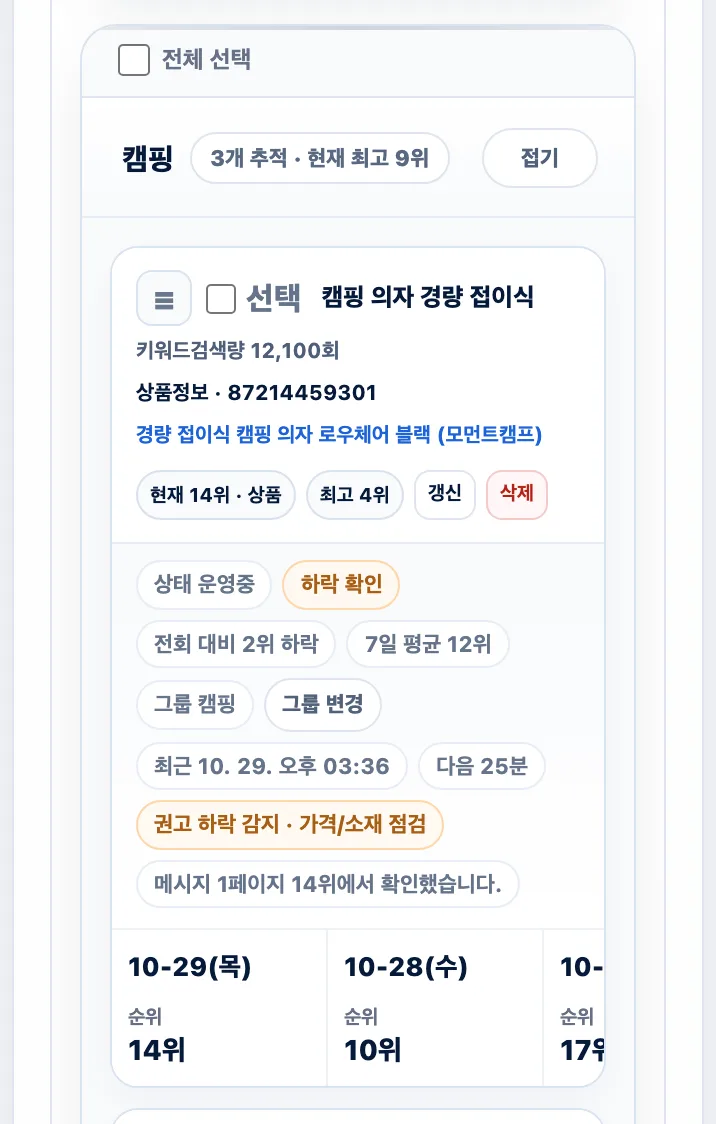
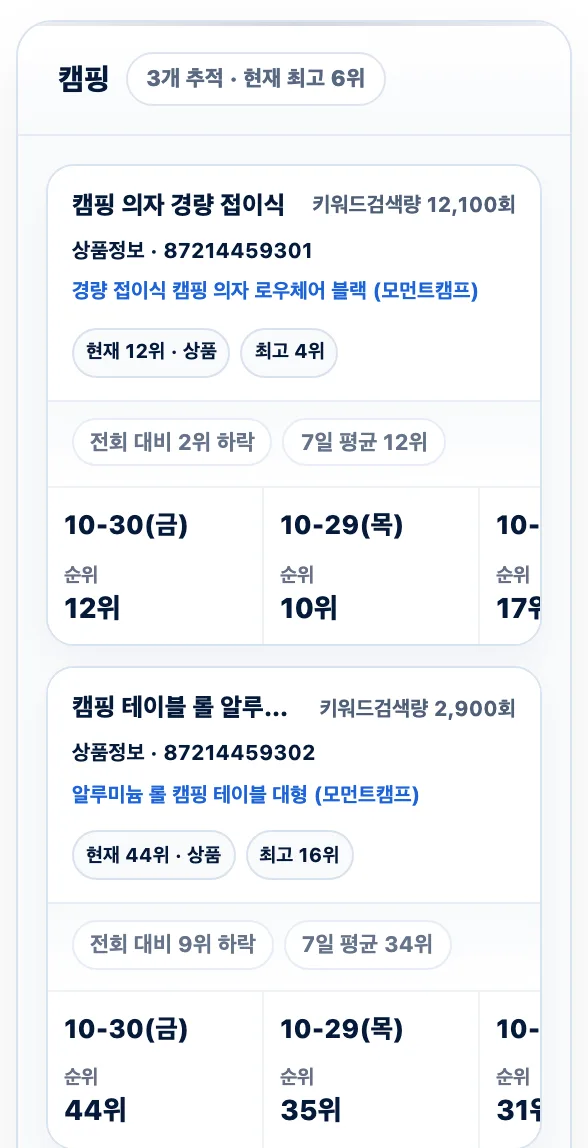
wip(seo): 설명 페이지 2개 고칠 목록 1~8 반영(fix-1030, 배포 전)
- 순위 예시 그림을 광고주 화면(client.html N30 순위판, 가짜 데이터)에서 다시 찍음: 등록 칸·자동추적 요약·선택 항목 정리 바와
  카드 조작 버튼·운영 알약은 '선택 이미지 저장'과 같은 기준으로 가림, 카드 2장·날짜 8칸(넓은 화면)
- 순위 페이지 제목·설명·OG: '순위 확인' 대신 '순위 추적 · 30일 변동 기록'(주소 그대로)
- 두 페이지 첫 화면 아래 '이럴 때 씁니다' 3가지 + 예시 숫자 1개(가짜 데이터 표기)
- 기능 카드 6→4(몇 페이지 몇 번째·원부는 자주 묻는 질문으로), 카드=무엇·3단계=어떻게·FAQ=궁금증으로 되풀이 줄임
- 오가닉·원부·회차는 처음 나올 때 쉬운 말, '수집' 표현 뺌, 바닥 줄 '하루 2~3회' 뺌
- 키워드 페이지 '로그인 없이 연관 키워드 조회' 질문·링크 삭제, 가격 문구 없음
- 390px 휴대폰에서 제목 구 단위 줄바꿈(구 묶음 해제는 360px 이하만), 시험 8건 추가

Changed region(s): [[0.0612, 0.0623, 0.9796, 1.0], [0.0918, 0.0, 0.8571, 0.0934], [0.0, 0.0311, 0.0306, 1.0]]

diff --git a/src/pages/guide-naver-shopping-rank-tracking.html b/src/pages/guide-naver-shopping-rank-tracking.html
@@ -4,8 +4,8 @@
 <meta charset="utf-8" />
 <meta name="viewport" content="width=device-width, initial-scale=1" />
 <meta name="theme-color" content="#061a3a" />
-<title>스마트스토어 키워드 순위 30일 추적 · 네이버 쇼핑 순위 확인 | 모먼트 인사이트</title>
-<meta name="description" content="스마트스토어 상품이 네이버 쇼핑 검색에서 몇 위인지, 광고를 뺀 상위 300개 안에서 하루 2~3회 확인해 최근 30일 기록으로 보여 줍니다. 확인할 수 있는 것, 쓰는 법 3단계, 예시 화면, 무료 범위와 도입 조건을 안내합니다." />
+<title>네이버 쇼핑 순위 추적 · 스마트스토어 30일 순위 변동 기록 | 모먼트 인사이트</title>
+<meta name="description" content="스마트스토어 상품의 네이버 쇼핑 순위를 자동으로 추적해 최근 30일 변동을 날짜별로 기록합니다. 광고를 뺀 상위 300개 안에서 하루 2~3회 확인하며, 쓰임새·쓰는 법·예시 화면·도입 조건을 안내합니다." />
 <meta name="robots" content="index, follow" />
 <meta name="author" content="모먼트 인사이트" />
 <link rel="canonical" href="https://insight.momentlabs.co.kr/guide/naver-shopping-rank-tracking" />
@@ -13,8 +13,8 @@
 <meta property="og:type" content="article" />
 <meta property="og:site_name" content="모먼트 인사이트" />
 <meta property="og:locale" content="ko_KR" />
-<meta property="og:title" content="스마트스토어 키워드 순위 30일 추적 | 모먼트 인사이트" />
-<meta property="og:description" content="광고를 뺀 네이버 쇼핑 상위 300개 안에서 내 상품 순위를 하루 2~3회 확인해 최근 30일 기록으로 봅니다." />
+<meta property="og:title" content="네이버 쇼핑 순위 추적 · 30일 변동 기록 | 모먼트 인사이트" />
+<meta property="og:description" content="광고를 뺀 네이버 쇼핑 상위 300개 안에서 내 상품 순위를 자동으로 추적하고, 최근 30일 변동을 날짜별 기록으로 남깁니다." />
 <meta property="og:url" content="https://insight.momentlabs.co.kr/guide/naver-shopping-rank-tracking" />
 <meta property="og:image" content="https://insight.momentlabs.co.kr/og-image.jpg" />
 <meta property="og:image:width" content="1200" />
@@ -22,10 +22,10 @@
 <meta property="og:image:alt" content="모먼트 인사이트 — 시장 뉴스 · 키워드 조사 · 30일 순위 추적" />
 <meta name="twitter:card" content="summary_large_image" />
 <meta name="twitter:image" content="https://insight.momentlabs.co.kr/og-image.jpg" />
-<meta name="twitter:title" content="스마트스토어 키워드 순위 30일 추적 | 모먼트 인사이트" />
-<meta name="twitter:description" content="광고를 뺀 네이버 쇼핑 상위 300개 안에서 내 상품 순위를 하루 2~3회 확인해 최근 30일 기록으로 봅니다." />
+<meta name="twitter:title" content="네이버 쇼핑 순위 추적 · 30일 변동 기록 | 모먼트 인사이트" />
+<meta name="twitter:description" content="광고를 뺀 네이버 쇼핑 상위 300개 안에서 내 상품 순위를 자동으로 추적하고, 최근 30일 변동을 날짜별 기록으로 남깁니다." />
 <link rel="stylesheet" href="/mi-tokens.css?v=tokens-v1-20260826" />
-<link rel="stylesheet" href="/mi-guide.css?v=guide-v1-20261029" />
+<link rel="stylesheet" href="/mi-guide.css?v=guide-v2-20261030" />
 </head>
 <body>
 
@@ -55,15 +55,15 @@
             <meta itemprop="position" content="1" />
           </li>
           <li itemprop="itemListElement" itemscope itemtype="https://schema.org/ListItem">
-            <span itemprop="name">스마트스토어 순위 추적 안내</span>
+            <span itemprop="name">네이버 쇼핑 순위 추적 안내</span>
             <meta itemprop="position" content="2" />
           </li>
         </ol>
-        <span class="mi-kicker">사용 안내 · 네이버 쇼핑 순위</span>
-        <h1 id="mi-guide-title"><span class="mi-nb">스마트스토어 키워드 순위,</span> <span class="mi-nb">30일 기록으로 봅니다</span></h1>
+        <span class="mi-kicker">사용 안내 · 네이버 쇼핑 순위 추적</span>
+        <h1 id="mi-guide-title"><span class="mi-nb">네이버 쇼핑 순위 추적,</span> <span class="mi-nb">30일 변동을 기록합니다</span></h1>
         <p class="mi-lead">
-          내 상품이 그 키워드로 네이버 쇼핑에서 몇 위인지 매번 직접 검색해 세지 않아도 됩니다.
-          모먼트 인사이트가 광고를 뺀 상위 300개 상품 안에서 하루 2~3회 순위를 확인하고, 최근 30일 흐름을 한 화면에 모아 둡니다.
+          내 상품이 그 키워드로 몇 위였는지, 지난 30일 동안 어떻게 오르내렸는지 기록으로 남깁니다.
+          도입하면 등록한 키워드와 상품의 순위를 모먼트 인사이트가 자동으로 확인해 한 화면에 쌓아 둡니다.
         </p>
         <div class="mi-inline-actions">
           <a class="mi-button primary" href="https://pf.kakao.com/_ixoLxfX" target="_blank" rel="noopener">도입 문의 · 카카오 채널</a>
@@ -80,6 +80,33 @@
       </div>
     </section>
 
+    <section class="mi-section is-white" id="mi-guide-use" aria-labelledby="mi-guide-use-title">
+      <div class="mi-shell">
+        <div class="mi-section-head">
+          <span class="mi-kicker">이럴 때 씁니다</span>
+          <h2 id="mi-guide-use-title">순위를 기록해 두면 판단이 빨라집니다</h2>
+        </div>
+        <div class="mi-grid-3">
+          <article class="mi-card">
+            <span class="mi-fact-tag">광고 전</span>
+            <h3>광고비를 쓰기 전에, 광고 없는 순위부터</h3>
+            <p>광고를 걸기 전에 광고 없이 몇 위에 있는지 기록으로 먼저 봅니다. 여기서 말하는 순위는 모두 오가닉 순위(광고가 아닌 일반 상품 사이의 순위)입니다.</p>
+          </article>
+          <article class="mi-card">
+            <span class="mi-fact-tag">바꾼 뒤</span>
+            <h3>상세페이지·가격·리뷰를 바꾼 뒤 효과 확인</h3>
+            <p>바꾼 날 앞뒤로 순위가 어떻게 움직였는지 날짜별 기록으로 비교합니다.</p>
+            <p class="mi-example"><span>예시 숫자 · 가짜 데이터</span><strong>23위 → 9위</strong></p>
+          </article>
+          <article class="mi-card">
+            <span class="mi-fact-tag">보고</span>
+            <h3>대행사라면 광고주에게 기록으로 보고</h3>
+            <p>"순위가 올랐다"는 말 대신, 날짜별 순위 변화를 그대로 보여 주며 보고합니다.</p>
+          </article>
+        </div>
+      </div>
+    </section>
+
     <section class="mi-section" id="mi-guide-what" aria-labelledby="mi-guide-what-title">
       <div class="mi-shell">
         <div class="mi-section-head">
@@ -87,31 +114,21 @@
           <h2 id="mi-guide-what-title">키워드 하나에 상품 하나, 순위를 매일 쌓아 둡니다</h2>
           <p>등록한 키워드 × 내 상품마다 네이버 쇼핑 검색 결과에서의 위치를 기록합니다.</p>
         </div>
-        <div class="mi-grid-3">
+        <div class="mi-grid-2" data-mi-guide-cards>
           <article class="mi-card">
             <span class="mi-fact-tag">광고 제외</span>
             <h3>광고를 뺀 상위 300개 안에서 찾습니다</h3>
-            <p>검색 결과의 광고 상품은 세지 않고, 오가닉(일반) 상품 1~300위 안에서 내 상품의 위치를 찾습니다.</p>
+            <p>검색 결과의 광고 상품은 세지 않고, 오가닉 상품 1~300위 안에서 내 상품의 위치를 찾습니다.</p>
           </article>
           <article class="mi-card">
-            <span class="mi-fact-tag">하루 2~3회</span>
-            <h3>하루 2~3회 자동으로 확인합니다</h3>
-            <p>정해진 시각에 한꺼번에 도는 방식이 아니라, 차례가 돌아오는 대로 하나씩 확인해 기록합니다. 확인이 실패한 회차는 기록하지 않고 마지막으로 확인된 순위를 그대로 둡니다.</p>
+            <span class="mi-fact-tag">자동 기록</span>
+            <h3>직접 검색하지 않아도 순위가 쌓입니다</h3>
+            <p>등록한 키워드와 상품을 차례대로 자동으로 확인해 기록합니다. 매번 검색해 세거나 새로 고칠 필요가 없습니다.</p>
           </article>
           <article class="mi-card">
             <span class="mi-fact-tag">최근 30일</span>
             <h3>최근 30일 일별 순위판</h3>
             <p>상품별로 날짜마다 순위를 보여 줘, 언제 오르고 내렸는지 한눈에 봅니다. 현재 순위와 최고 순위도 함께 표시합니다.</p>
-          </article>
-          <article class="mi-card">
-            <span class="mi-fact-tag">몇 페이지 몇 번째</span>
-            <h3>페이지와 페이지 안 순위까지</h3>
-            <p>광고 제외 40개 보기 기준으로 몇 페이지 몇 번째인지도 함께 표시합니다.</p>
-          </article>
-          <article class="mi-card">
-            <span class="mi-fact-tag">가격비교(원부)</span>
-            <h3>가격비교 카드로 묶인 상품도</h3>
-            <p>내 상품 카드와, 여러 판매처를 하나로 묶은 네이버 가격비교(원부) 카드 중 더 높은 쪽을 대표 순위로 봅니다. 원부 카드로만 보이는 상품은 가격비교 상품 주소(원부 주소)로 등록합니다.</p>
           </article>
           <article class="mi-card">
             <span class="mi-fact-tag">골라 보기</span>
@@ -132,20 +149,19 @@
           <li class="mi-card">
             <span class="mi-card-number">1</span>
             <h3>키워드와 상품 주소 등록</h3>
-            <p>추적할 키워드와 스마트스토어 상품 주소(또는 가격비교 원부 주소)를 넣습니다. 도입하면 운영팀이 처음 키워드와 상품을 먼저 등록해 드립니다.</p>
+            <p>추적할 키워드와 스마트스토어 상품 주소를 넣습니다. 가격비교 카드로만 보이는 상품이면 원부 주소(원부: 여러 판매처를 하나로 묶은 네이버 가격비교 카드)를 넣습니다. 도입하면 운영팀이 처음 키워드와 상품을 먼저 등록해 드립니다.</p>
           </li>
           <li class="mi-card">
             <span class="mi-card-number">2</span>
-            <h3>하루 2~3회 자동 확인</h3>
-            <p>등록 다음 수집부터 순위가 쌓입니다. 직접 검색하거나 새로 고칠 필요가 없습니다.</p>
+            <h3>자동으로 확인·기록</h3>
+            <p>등록한 다음 확인부터 순위가 쌓입니다. 등록 전의 과거 순위는 소급되지 않습니다.</p>
           </li>
           <li class="mi-card">
             <span class="mi-card-number">3</span>
             <h3>30일 흐름 보기</h3>
-            <p>상품별 일별 순위판에서 현재·최고 순위와 직전 대비 변동을 보고, 상승·하락한 상품만 골라 확인합니다.</p>
+            <p>상품별 일별 순위판을 열어, 오르내린 상품부터 골라 봅니다.</p>
           </li>
         </ol>
-        <p class="mi-steps-note">순위는 등록 다음 수집부터 쌓입니다. 등록 전의 과거 순위는 소급되지 않습니다.</p>
       </div>
     </section>
 
@@ -154,15 +170,15 @@
         <div class="mi-section-head">
           <span class="mi-kicker">실제 화면</span>
           <h2 id="mi-guide-screen-title">광고주가 보는 30일 순위 화면</h2>
-          <p>아래는 가짜 데이터로 그린 예시 화면입니다. 키워드·상품명·스토어 이름과 순위는 설명용이며 실제 고객 정보가 아닙니다.</p>
+          <p>아래는 가짜 데이터로 그린 예시 화면입니다. 키워드·상품명·스토어 이름과 순위는 설명용이며 실제 고객 정보가 아닙니다. 순위 부분이 잘 보이도록 등록 칸과 관리 버튼은 가렸습니다.</p>
         </div>
         <figure class="mi-shot">
           <div class="mi-shot-bar"><span class="mi-shot-label">예시 화면</span><span>가짜 데이터 · 실제 고객 정보 미사용</span></div>
           <picture>
-            <source media="(max-width: 640px)" srcset="/guide/img/rank-tracking-example-mobile.webp" width="716" height="1124" />
-            <img src="/guide/img/rank-tracking-example.webp" width="1521" height="1449" loading="lazy" decoding="async" alt="예시 화면: 키워드별 상품의 현재 순위, 최고 순위, 직전 대비 변동과 최근 30일 일별 순위가 카드로 정리된 N 30일 순위 화면" />
+            <source media="(max-width: 640px)" srcset="/guide/img/rank-tracking-example-mobile.webp" width="588" height="1148" />
+            <img src="/guide/img/rank-tracking-example.webp" width="1443" height="777" loading="lazy" decoding="async" alt="예시 화면: 광고주 화면의 30일 순위판. 그룹 아래 상품 카드마다 현재 순위, 최고 순위, 전회 대비 변동, 7일 평균과 날짜별 순위가 보입니다" />
           </picture>
-          <figcaption>예시 화면 · 상품 카드마다 현재 순위·최고 순위·직전 대비 변동, 아래에 날짜별 순위가 이어집니다. 휴대폰에서는 날짜 칸을 옆으로 밀어 지난 날짜를 봅니다.</figcaption>
+          <figcaption>예시 화면 · 상품 카드마다 현재 순위·최고 순위·전회 대비 변동, 아래에 날짜별 순위가 이어집니다. 휴대폰에서는 날짜 칸을 옆으로 밀어 지난 날짜를 봅니다.</figcaption>
         </figure>
       </div>
     </section>
@@ -211,13 +227,25 @@
           <details open itemprop="mainEntity" itemscope itemtype="https://schema.org/Question">
             <summary itemprop="name">광고로 노출된 자리도 순위에 들어가나요?</summary>
             <div itemprop="acceptedAnswer" itemscope itemtype="https://schema.org/Answer">
-              <p itemprop="text">아니요. 광고 상품은 빼고 오가닉(일반) 상품만 셉니다. 그래서 네이버 쇼핑 화면에서 광고까지 포함해 눈으로 센 순서와 다를 수 있습니다.</p>
+              <p itemprop="text">아니요. 광고 상품은 빼고 오가닉 상품(광고가 아닌 일반 상품)만 셉니다. 그래서 네이버 쇼핑 화면에서 광고까지 포함해 눈으로 센 순서와 다를 수 있습니다.</p>
             </div>
           </details>
           <details open itemprop="mainEntity" itemscope itemtype="https://schema.org/Question">
             <summary itemprop="name">하루에 몇 번 확인하나요? 정해진 시각이 있나요?</summary>
             <div itemprop="acceptedAnswer" itemscope itemtype="https://schema.org/Answer">
-              <p itemprop="text">하루 2~3회 확인합니다. 정해진 시각이 아니라 차례가 돌아오는 대로 하나씩 기록합니다. 확인이 실패한 회차는 기록하지 않고, 마지막으로 확인된 순위를 그대로 둡니다.</p>
+              <p itemprop="text">하루 2~3회 확인합니다. 정해진 시각이 아니라 차례가 돌아오는 대로 하나씩 기록합니다. 한 번 확인하는 것을 회차라고 하는데, 확인이 실패한 회차는 기록하지 않고 마지막으로 확인된 순위를 그대로 둡니다.</p>
+            </div>
+          </details>
+          <details open itemprop="mainEntity" itemscope itemtype="https://schema.org/Question">
+            <summary itemprop="name">몇 페이지 몇 번째인지도 나오나요?</summary>
+            <div itemprop="acceptedAnswer" itemscope itemtype="https://schema.org/Answer">
+              <p itemprop="text">네. 광고를 뺀 40개 보기 기준으로 몇 페이지 몇 번째인지도 함께 표시합니다.</p>
+            </div>
+          </details>
+          <details open itemprop="mainEntity" itemscope itemtype="https://schema.org/Question">
+            <summary itemprop="name">가격비교(원부) 카드로 묶인 상품은 어떻게 세나요?</summary>
+            <div itemprop="acceptedAnswer" itemscope itemtype="https://schema.org/Answer">
+              <p itemprop="text">원부는 여러 판매처를 하나로 묶은 네이버 가격비교 카드입니다. 내 상품 카드와 원부 카드 중 더 높은 쪽을 대표 순위로 봅니다. 원부 카드로만 보이는 상품은 원부 주소로 등록합니다.</p>
             </div>
           </details>
           <details open itemprop="mainEntity" itemscope itemtype="https://schema.org/Question">
@@ -227,21 +255,9 @@
             </div>
           </details>
           <details open itemprop="mainEntity" itemscope itemtype="https://schema.org/Question">
-            <summary itemprop="name">등록하기 전의 순위도 볼 수 있나요?</summary>
-            <div itemprop="acceptedAnswer" itemscope itemtype="https://schema.org/Answer">
-              <p itemprop="text">아니요. 순위는 등록 다음 수집부터 쌓이고, 등록 전의 과거 순위는 소급되지 않습니다.</p>
-            </div>
-          </details>
-          <details open itemprop="mainEntity" itemscope itemtype="https://schema.org/Question">
             <summary itemprop="name">옵션이 여러 개인 그룹상품도 추적되나요?</summary>
             <div itemprop="acceptedAnswer" itemscope itemtype="https://schema.org/Answer">
-              <p itemprop="text">네. 그룹상품은 검색 결과에 대표 옵션 하나로 보이기 때문에, 대표 옵션이 바뀌면 원래 상품번호로는 찾지 못할 수 있습니다. 이럴 때 운영팀이 관리자 화면에서 같은 그룹의 옵션 상품번호를 최대 50개까지 함께 등록해 두면, 같은 상위 300개 결과 안에서 그 옵션으로 잡힌 순위도 기록합니다.</p>
-            </div>
-          </details>
-          <details open itemprop="mainEntity" itemscope itemtype="https://schema.org/Question">
-            <summary itemprop="name">무료로 써 볼 수 있나요?</summary>
-            <div itemprop="acceptedAnswer" itemscope itemtype="https://schema.org/Answer">
-              <p itemprop="text">30일 순위 추적은 도입 후 열립니다. 구글로 무료 체험 가입을 하면 순위 추적 화면을 예시 데이터로 미리 보고, 키워드 조회는 하루 5회 쓸 수 있습니다. 도입 문의는 카카오 채널로 받습니다.</p>
+              <p itemprop="text">네. 그룹상품은 검색 결과에 대표 옵션 하나로 보이기 때문에, 대표 옵션이 바뀌면 원래 상품번호로는 찾지 못할 수 있습니다. 이럴 때 운영팀이 관리자 화면에서 같은 그룹의 옵션 상품번호를 최대 50개까지 함께 등록해 두면, 같은 검색 결과 안에서 그 옵션으로 잡힌 순위도 기록합니다.</p>
             </div>
           </details>
         </div>
@@ -279,7 +295,7 @@
     <div class="mi-shell mi-footer-inner">
       <div class="mi-footer-brand">
         <strong>Moment Insight</strong>
-        <span>네이버 셀러의 시장 뉴스 · 키워드 조사 · 30일 순위 추적 · 순위 수집 하루 2~3회 자동</span>
+        <span>네이버 셀러의 시장 뉴스 · 키워드 조사 · 30일 순위 추적</span>
       </div>
       <nav class="mi-footer-links" aria-label="하단 바로가기">
         <a href="/">홈</a>

diff --git a/src/pages/guide-naver-keyword-search-volume.html b/src/pages/guide-naver-keyword-search-volume.html
@@ -25,7 +25,7 @@
 <meta name="twitter:title" content="네이버 키워드 검색량 조회 | 모먼트 인사이트" />
 <meta name="twitter:description" content="네이버 공식 데이터로 월 검색수·12개월 추이·시즌·연령·광고 입찰가를 한 화면에서. 구글로 가입하면 하루 5회 무료." />
 <link rel="stylesheet" href="/mi-tokens.css?v=tokens-v1-20260826" />
-<link rel="stylesheet" href="/mi-guide.css?v=guide-v1-20261029" />
+<link rel="stylesheet" href="/mi-guide.css?v=guide-v2-20261030" />
 </head>
 <body>
 
@@ -69,7 +69,7 @@
           <a class="mi-button primary" href="/client?signup=1">무료 체험 가입 · 구글로 시작</a>
           <a class="mi-button secondary" href="https://pf.kakao.com/_ixoLxfX" target="_blank" rel="noopener">도입 문의 · 카카오 채널</a>
         </div>
-        <p class="mi-hero-note">구글 계정으로 가입하면 키워드 조회를 하루 5회 무료로 쓸 수 있습니다.</p>
+        <p class="mi-hero-note">카드 등록 없이 구글 계정으로 바로 시작합니다.</p>
         </div>
         <aside class="mi-glance" aria-label="키워드 조회 핵심 사실">
           <span class="mi-glance-head">한눈에 보기</span>
@@ -77,6 +77,33 @@
           <div class="mi-glance-row"><strong>최대 5개</strong><span>쉼표로 나눠 같은 기준으로 비교</span></div>
           <div class="mi-glance-row"><strong>하루 5회</strong><span>구글로 가입하면 무료</span></div>
         </aside>
+      </div>
+    </section>
+
+    <section class="mi-section is-white" id="mi-guide-use" aria-labelledby="mi-guide-use-title">
+      <div class="mi-shell">
+        <div class="mi-section-head">
+          <span class="mi-kicker">이럴 때 씁니다</span>
+          <h2 id="mi-guide-use-title">감이 아니라 숫자로 정합니다</h2>
+        </div>
+        <div class="mi-grid-3">
+          <article class="mi-card">
+            <span class="mi-fact-tag">등록 전</span>
+            <h3>상품 등록 전에 키워드 고르기</h3>
+            <p>후보 키워드를 쉼표로 나눠 넣고 월 검색수를 나란히 비교해, 상품명에 쓸 키워드를 고릅니다.</p>
+          </article>
+          <article class="mi-card">
+            <span class="mi-fact-tag">시즌 전</span>
+            <h3>시즌 전에 광고 준비</h3>
+            <p>검색이 가장 몰리는 달을 보고, 한 달 앞서 행사와 광고를 준비합니다.</p>
+            <p class="mi-example"><span>예시 숫자 · 가짜 데이터</span><strong>5월 최다 → 4월 준비</strong></p>
+          </article>
+          <article class="mi-card">
+            <span class="mi-fact-tag">예산</span>
+            <h3>광고비 예산 잡기</h3>
+            <p>1위 노출 입찰가와 한 달 예상 비용(검색광고 추정치)으로 광고비를 얼마나 잡을지 가늠합니다.</p>
+          </article>
+        </div>
       </div>
     </section>
 
@@ -116,7 +143,7 @@
           <article class="mi-card">
             <span class="mi-fact-tag">비교 · 연관 · 콘텐츠</span>
             <h3>다른 키워드와 나란히</h3>
-            <p>쉼표로 최대 5개를 같은 기준으로 비교하고, 연관 키워드와 블로그·카페·지식iN 글 수도 함께 확인합니다.</p>
+            <p>여러 키워드를 같은 기준으로 나란히 비교하고, 연관 키워드와 블로그·카페·지식iN 글 수도 함께 확인합니다.</p>
           </article>
         </div>
       </div>
@@ -132,12 +159,12 @@
           <li class="mi-card">
             <span class="mi-card-number">1</span>
             <h3>구글로 무료 체험 가입</h3>
-            <p>구글 계정 하나면 됩니다. 가입하면 키워드 조회를 하루 5회 바로 쓸 수 있습니다.</p>
+            <p>구글 계정 하나면 됩니다. 가입하면 키워드 조회를 바로 쓸 수 있습니다.</p>
           </li>
           <li class="mi-card">
             <span class="mi-card-number">2</span>
             <h3>키워드 입력 후 조회</h3>
-            <p>키워드 하나를 넣거나, 쉼표로 나눠 최대 5개까지 넣고 조회를 누릅니다.</p>
+            <p>키워드 하나를 넣거나, 쉼표로 나눠 여러 개를 넣고 조회를 누릅니다.</p>
           </li>
           <li class="mi-card">
             <span class="mi-card-number">3</span>
@@ -237,12 +264,6 @@
               <p itemprop="text">네이버 검색광고가 내는 추정치입니다(모바일·클릭당·1위 노출 기준). 실제 광고비는 입찰 경쟁과 운영 방식에 따라 달라질 수 있습니다.</p>
             </div>
           </details>
-          <details open itemprop="mainEntity" itemscope itemtype="https://schema.org/Question">
-            <summary itemprop="name">가입하지 않고도 써 볼 수 있나요?</summary>
-            <div itemprop="acceptedAnswer" itemscope itemtype="https://schema.org/Answer">
-              <p itemprop="text">연관 키워드 조회는 로그인 없이 쓸 수 있습니다(IP별 1분 5회, 1시간 30회). 월 검색수 추이·시즌·연령까지 보는 키워드 조회는 구글로 가입하면 하루 5회 무료입니다. <a href="/related-keywords.html">로그인 없이 연관 키워드 조회 →</a></p>
-            </div>
-          </details>
         </div>
       </div>
     </section>
@@ -250,7 +271,7 @@
     <section class="mi-section is-white" id="mi-guide-related" aria-label="함께 보면 좋은 안내">
       <div class="mi-shell">
         <a class="mi-next" href="/guide/naver-shopping-rank-tracking">
-          <span><small>함께 보면 좋은 안내</small><strong>스마트스토어 키워드 순위 30일 추적 — 광고 뺀 상위 300개에서</strong></span>
+          <span><small>함께 보면 좋은 안내</small><strong>네이버 쇼핑 순위 추적 — 30일 변동 기록</strong></span>
           <b>안내 보기 →</b>
         </a>
       </div>
@@ -278,7 +299,7 @@
     <div class="mi-shell mi-footer-inner">
       <div class="mi-footer-brand">
         <strong>Moment Insight</strong>
-        <span>네이버 셀러의 시장 뉴스 · 키워드 조사 · 30일 순위 추적 · 순위 수집 하루 2~3회 자동</span>
+        <span>네이버 셀러의 시장 뉴스 · 키워드 조사 · 30일 순위 추적</span>
       </div>
       <nav class="mi-footer-links" aria-label="하단 바로가기">
         <a href="/">홈</a>

diff --git a/public/mi-guide.css b/public/mi-guide.css
@@ -332,6 +332,32 @@ body {
   font-size: 13.5px;
 }
 
+/* 이럴 때 씁니다: 예시 숫자(가짜 데이터) 한 줄 (2026-10-30) */
+#mi-guide .mi-card .mi-example {
+  display: flex;
+  flex-wrap: wrap;
+  align-items: baseline;
+  gap: 4px 10px;
+  margin-top: 14px;
+  padding: 10px 12px;
+  border: 1px dashed #c9d6ea;
+  border-radius: 10px;
+  background: #f5f8fd;
+}
+
+#mi-guide .mi-example span {
+  color: var(--mi-muted);
+  font-size: 12px;
+  font-weight: 800;
+}
+
+#mi-guide .mi-example strong {
+  color: var(--mi-navy);
+  font-size: 22px;
+  font-weight: 900;
+  line-height: 1.2;
+}
+
 /* ── 예시 화면 ───────────────────────────────────────────── */
 #mi-guide .mi-shot {
   overflow: hidden;
@@ -781,14 +807,16 @@ body {
   }
 }
 
+/* 아주 좁은 화면(320px대)에서만 제목 구(句) 묶음을 풀어 가로 넘침을 막는다. 390px 휴대폰은 구 단위로 줄바꿈. */
+@media (max-width: 360px) {
+  #mi-guide .mi-nb {
+    white-space: normal;
+  }
+}
+
 @media (max-width: 430px) {
   #mi-guide .mi-brand span:last-child {
     display: none;
-  }
-
-  /* 좁은 화면(320px)에서는 제목 구(句) 묶음을 풀어 가로 넘침을 막는다 */
-  #mi-guide .mi-nb {
-    white-space: normal;
   }
 
   #mi-guide h1 {
